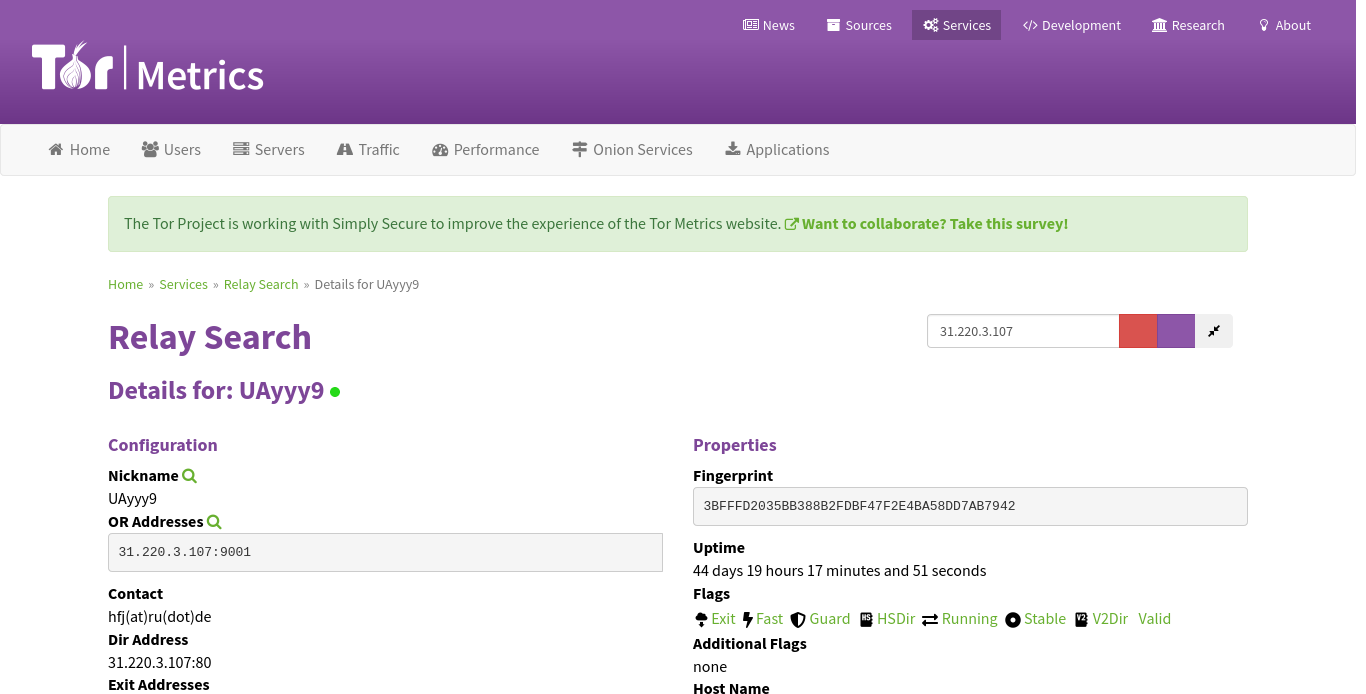
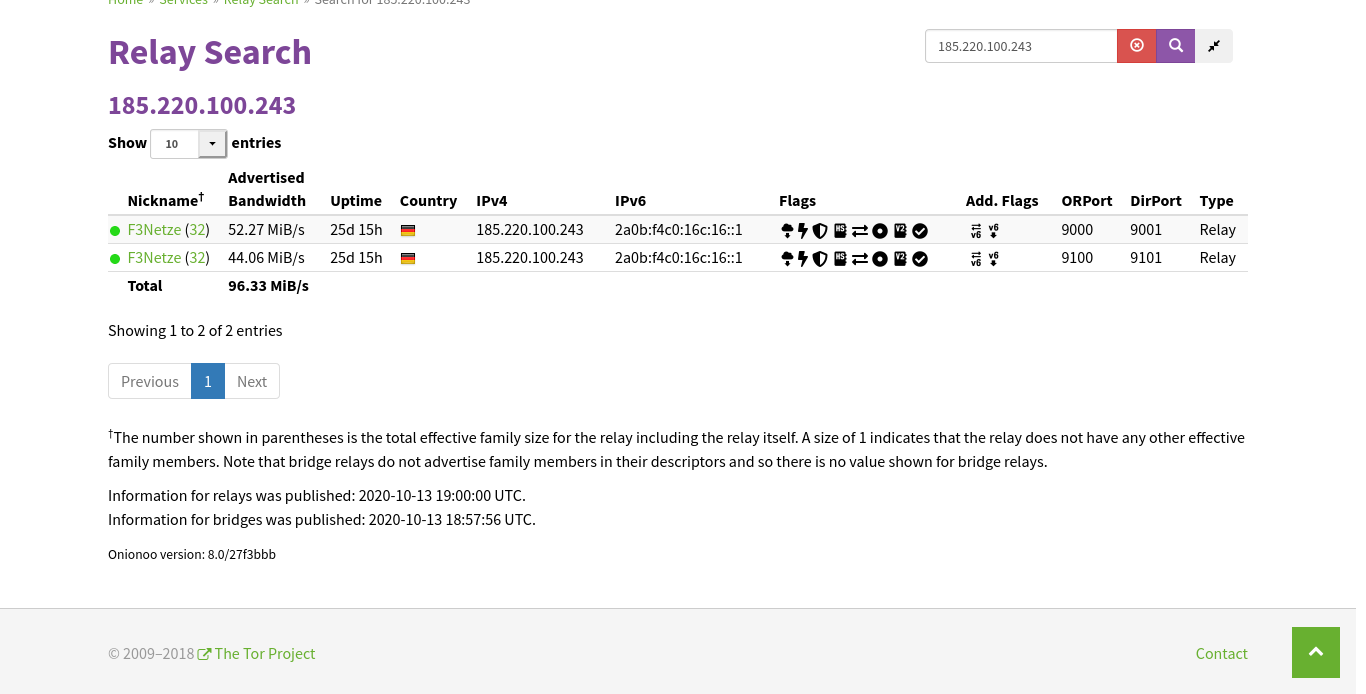
better tor

diff --git a/examples/tor.py b/examples/tor.py
@@ -1,4 +1,6 @@
 from pombo_correio import TorBrowser
+from time import sleep
+
 
 if __name__ == "__main__":
     from os.path import join, dirname, expanduser
@@ -12,16 +14,30 @@ if __name__ == "__main__":
                     headless=True,
                     js_enabled=False,
                     binary=binary) as browser:
-        url = browser.find_and_click_xpath("/html/body/div[2]/p[2]/a[2]")
+        browser.got_to_url("https://browserleaks.com/ip")
+        # TODO wait for element that indicates page loaded
+        browser.scroll_down(5)
+        sleep(1)
+        browser.save_screenshot("tor_browserleaks.png")
+
+        browser.got_to_url("https://check.torproject.org/")
+        browser.find_and_click_xpath("/html/body/div[2]/p[2]/a[2]")
         browser.wait_for_xpath("/html/body/div/div[4]/div[2]/h2/span")
+        browser.scroll_down(5)
+        sleep(1)
         browser.save_screenshot("tor_relay.png")
 """
-BrowserEvents.BROWSER_OPEN {'open_tabs': ['15'], 'tab_id': '15', 'homepage': 'https://check.torproject.org/'}
+BrowserEvents.BROWSER_OPEN {'open_tabs': ['15'], 'tab_id': '15', 'homepage': 'https://torproject.org/'}
+BrowserEvents.OPEN_URL {'url': 'https://browserleaks.com/ip', 'old_url': 'https://www.torproject.org/', 'tab_id': '15'}
+BrowserEvents.ELEMENT_SEND_KEYS {'keys': ['\ue015', '\ue015', '\ue015', '\ue015', '\ue015'], 'element_text': 'Home Page\nIP Address\nJavaScript\nWebRTC Leak Test\nCanvas Fingerprint\nWebGL Report\nFont Fingerprinting\nSSL Client Test\nGeolocation API\nFeatures Detection\nContent Filters\nJava Applet\nFlash Player\nSilverlight\nMore Tools\nSettings\nWhat Is My IP Address\nMy IP Address\nIP address 77.247.181.162\nHostname chomsky.torservers.net\nIP Address Location\nCountry Netherlands (NL)\nState/Region South Holland (ZH)\nCity Dordrecht\nISP NForce Entertainment B.V.\nASN 43350\nTimezone Europe/Amsterdam\nLocal Time Tue, 13 Oct 2020 22:14:32 +0200\nLatitude/Longitude 51.7731,4.6752\nIPv6 Leak Test\nIPv6 Address\n2a0b:f4c0:16c:16::1\nWebRTC Leak Test\nLocal IP address n/a\nPublic IP address n/a\nDNS Leak Test\nTest Results Found 2 Servers, 1 ISP, 1 Location\nYour DNS Servers\nIP Address : ISP : Location :\n185.220.100.130 F3 Netze e.V. Germany\n2a0b:f4c0:16c:130::1 F3 Netze e.V. Germany\nFlash Leak Test\nFlash IP address n/a\nTCP/IP Fingerprint\nOS Linux (2.2.x-3.x)\nLink Ethernet or modem\nMTU 1500\nDistance 11 Hops\nHTTP Headers\nraw headers\nRequest GET /ip HTTP/2.0\nHost browserleaks.com\nUser-Agent Mozilla/5.0 (X11; Ubuntu; Linux x86_64; rv:81.0) Gecko/20100101 Firefox/81.0\nAccept text/html,application/xhtml+xml,application/xml;q=0.9,image/webp,*/*;q=0.8\nAccept-Language en-US,en;q=0.5\nAccept-Encoding gzip, deflate, br\nUpgrade-Insecure-Requests 1\nTE trailers\n\n\n\n\n\n\n\n\nTor Relay Details\nRelays\n✔\nFound 3 Tor Relays matching your IP [show all / hide all]\nRelay #1 Fingerprint 204DFD2A2C6A0DC1FA0EACB495218E0B661704FD\nRunning\n✔\nTrue\nNickname HaveHeart\nCountry Netherlands\nLatitude/Longitude 52.3824,4.8995\nAS Number AS43350\nAS Name NForce Entertainment B.V.\nOR Addresses 77.247.181.164:443\nExit Addresses 77.247.181.162\nDir Address 77.247.181.164:80\nVerified Host Names rainbowwarrior.torservers.net\nFlags\nExit Policy\nreject 0.0.0.0/8:*\nreject 169.254.0.0/16:*\nreject 127.0.0.0/8:*\nreject 192.168.0.0/16:*\nreject 10.0.0.0/8:*\nreject 172.16.0.0/12:*\nreject 77.247.181.164:*\nreject *:25\nreject 45.79.79.0/24:*\nreject 45.79.65.0/24:*\naccept *:*\nFirst Seen 2017-10-03 00:00:00 UTC\nLast Seen 2020-10-13 19:00:00 UTC\nLast Restarted 2020-09-23 04:49:47 UTC\nBandwidth 51.68 MB/s\nContact https://www.torservers.net/donate.html <support .AT. torservers .DOT. net>\nPlatform Tor 0.4.4.5 on Linux\nVersion Status Recommended\nRelay #2 Fingerprint 77131D7E2EC1CA9B8D737502256DA9103599CE51\n\n\n\n\n\n\n\n\n\n\nRelay #3 Fingerprint 7BFB908A3AA5B491DA4CA72CCBEE0E1F2A939B55\n\n\n\n\n\n\n\n\n\n\nWhere is My IP\n77.247.181.162\n+\n−\n© OpenStreetMap contributors, © CARTO\nIP Address Whois\nWhois 77.247.181.162\ninetnum:        77.247.181.160 - 77.247.181.175\nnetname:        ZWIEBELFREUNDE\ndescr:          Customer 692 / Zwiebelfreunde e.V.\nremarks:        Sent abuse to: abuse@torservers.net\ncountry:        NL\nadmin-c:        MB22990-RIPE\ntech-c:         MB22990-RIPE\nabuse-c:        AR18597-RIPE\nstatus:         ASSIGNED PA\nmnt-by:         MNT-NFORCE\nmnt-lower:      MNT-NFORCE\nmnt-routes:     MNT-NFORCE\ncreated:        2015-02-04T09:09:24Z\nlast-modified:  2019-09-17T10:54:47Z\nsource:         RIPE # Filtered\n\nperson:         Moritz Bartl\naddress:        Zwiebelfreunde e.V.\naddress:        c/o DID Dresdner Institut fuer Datenschutz\naddress:        Palaisplatz 3\naddress:        01097 Dresden\naddress:        Germany\nphone:          +49-351-21296018\nfax-no:         +49-8131-9044975\nremarks:        ---------------------------------\nremarks:        This network is used for research\nremarks:        in anonymization services and\nremarks:        provides Tor exit nodes to end\nremarks:        users.\nremarks:        ---------------------------------\nremarks:        Dieser Netzblock wird zur\nremarks:        Erforschung von Anonymisierungs-\nremarks:        techniken genutzt und stellt\nremarks:        Endnutzern Tor zur Verfuegung.\nremarks:        ---------------------------------\nremarks:        http://www.torservers.net/abuse.html\nremarks:        ---------------------------------\nnic-hdl:        MB22990-RIPE\nmnt-by:         ZWIEBELFREUNDE\ncreated:        2011-02-11T04:11:32Z\nlast-modified:  2019-10-03T21:50:51Z\nsource:         RIPE # Filtered\n\nroute:          77.247.176.0/21\ndescr:          NFOrce Entertainment BV - route 77.247.176.0/21\norigin:         AS43350\nmnt-by:         MNT-NFORCE\ncreated:        2020-05-01T07:14:42Z\nlast-modified:  2020-05-01T07:14:42Z\nsource:         RIPE\nFurther Reading\n\nLeave a Comment (113)\nBrowserLeaks © 2011-2020 All Right Reserved\nmoc.skaelresworb@nimda', 'tab_id': '15', 'url': 'https://browserleaks.com/ip', 'href': None}
+BrowserEvents.SCREENSHOT {'image': 'tor_browserleaks.png', 'tab_id': '15', 'url': 'https://browserleaks.com/ip'}
+BrowserEvents.OPEN_URL {'url': 'https://check.torproject.org/', 'old_url': 'https://browserleaks.com/ip', 'tab_id': '15'}
 BrowserEvents.WAIT_FOR_XPATH {'xpath': '/html/body/div[2]/p[2]/a[2]', 'timeout': 10, 'tab_id': '15', 'url': 'https://check.torproject.org/'}
-BrowserEvents.XPATH_FOUND {'xpath': '/html/body/div[2]/p[2]/a[2]', 'timeout': 10, 'tab_id': '15', 'url': 'https://check.torproject.org/', 'element_text': 'Relay Search', 'href': 'https://metrics.torproject.org/rs.html#search/31.220.3.107', 'element_id': '75fa7b6e-fa33-4792-b507-f20b4eebf828'}
-BrowserEvents.ELEMENT_CLICKED {'xpath': '/html/body/div[2]/p[2]/a[2]', 'element_text': 'Relay Search', 'tab_id': '15', 'url': 'https://check.torproject.org/', 'href': 'https://metrics.torproject.org/rs.html#search/31.220.3.107'}
-BrowserEvents.WAIT_FOR_XPATH {'xpath': '/html/body/div/div[4]/div[2]/h2/span', 'timeout': 30, 'tab_id': '15', 'url': 'https://metrics.torproject.org/rs.html#search/31.220.3.107'}
-BrowserEvents.XPATH_FOUND {'xpath': '/html/body/div/div[4]/div[2]/h2/span', 'timeout': 30, 'tab_id': '15', 'url': 'https://metrics.torproject.org/rs.html#search/31.220.3.107', 'element_text': '', 'href': None, 'element_id': '0ccc6fc6-d254-4c59-bebf-e15674a61488'}
-BrowserEvents.SCREENSHOT {'image': 'tor_relay.png', 'tab_id': '15', 'url': 'https://metrics.torproject.org/rs.html#details/3BFFFD2035BB388B2FDBF47F2E4BA58DD7AB7942'}
-BrowserEvents.BROWSER_CLOSED {'open_tabs': ['15'], 'tab_id': '15', 'current_url': 'https://metrics.torproject.org/rs.html#details/3BFFFD2035BB388B2FDBF47F2E4BA58DD7AB7942', 'tab2url': {'15': 'https://check.torproject.org/'}}
+BrowserEvents.XPATH_FOUND {'xpath': '/html/body/div[2]/p[2]/a[2]', 'timeout': 10, 'tab_id': '15', 'url': 'https://check.torproject.org/', 'element_text': 'Relay Search', 'href': 'https://metrics.torproject.org/rs.html#search/185.220.100.243', 'element_id': 'b0246841-66b4-40f3-b14d-7e32336e9a3a'}
+BrowserEvents.ELEMENT_CLICKED {'xpath': '/html/body/div[2]/p[2]/a[2]', 'element_text': 'Relay Search', 'tab_id': '15', 'url': 'https://check.torproject.org/', 'href': 'https://metrics.torproject.org/rs.html#search/185.220.100.243'}
+BrowserEvents.WAIT_FOR_XPATH {'xpath': '/html/body/div/div[4]/div[2]/h2/span', 'timeout': 30, 'tab_id': '15', 'url': 'https://metrics.torproject.org/rs.html#search/185.220.100.243'}
+BrowserEvents.XPATH_NOT_FOUND {'xpath': '/html/body/div/div[4]/div[2]/h2/span', 'timeout': 30, 'tab_id': '15', 'url': 'https://metrics.torproject.org/rs.html#search/185.220.100.243'}
+BrowserEvents.ELEMENT_SEND_KEYS {'keys': ['\ue015', '\ue015', '\ue015', '\ue015', '\ue015'], 'element_text': 'News\nSources\nServices\nDevelopment\nResearch\nAbout\nHome\nUsers\nServers\nTraffic\nPerformance\nOnion Services\nApplications\nThe Tor Project is working with Simply Secure to improve the experience of the Tor Metrics website. Want to collaborate? Take this survey!\nHomeServicesRelay SearchSearch for 185.220.100.243\nRelay Search\n185.220.100.243\nShow\n10\n25\n50\n100\nentries\nNickname† Advertised Bandwidth Uptime Country IPv4 IPv6 Flags Add. Flags ORPort DirPort Type\n  Total 96.33 MiB/s                  \nF3Netze (32) 52.27 MiB/s 25d 15h 185.220.100.243 2a0b:f4c0:16c:16::1 9000 9001 Relay\nF3Netze (32) 44.06 MiB/s 25d 15h 185.220.100.243 2a0b:f4c0:16c:16::1 9100 9101 Relay\nShowing 1 to 2 of 2 entries\nPrevious\n1\nNext\n†The number shown in parentheses is the total effective family size for the relay including the relay itself. A size of 1 indicates that the relay does not have any other effective family members. Note that bridge relays do not advertise family members in their descriptors and so there is no value shown for bridge relays.\nInformation for relays was published: 2020-10-13 19:00:00 UTC.\nInformation for bridges was published: 2020-10-13 18:57:56 UTC.\nOnionoo version: 8.0/27f3bbb\n© 2009–2018 The Tor Project\nContact\nThis material is supported in part by the National Science Foundation under Grant No. CNS-0959138. Any opinions, finding, and conclusions or recommendations expressed in this material are those of the author(s) and do not necessarily reflect the views of the National Science Foundation. "Tor" and the "Onion Logo" are registered trademarks of The Tor Project, Inc.. Data on this site is freely available under a CC0 no copyright declaration: To the extent possible under law, the Tor Project has waived all copyright and related or neighboring rights in the data. Graphs are licensed under a Creative Commons Attribution 3.0 United States License.', 'tab_id': '15', 'url': 'https://metrics.torproject.org/rs.html#search/185.220.100.243', 'href': None}
+BrowserEvents.SCREENSHOT {'image': 'tor_relay.png', 'tab_id': '15', 'url': 'https://metrics.torproject.org/rs.html#search/185.220.100.243'}
+BrowserEvents.BROWSER_CLOSED {'open_tabs': ['15'], 'tab_id': '15', 'current_url': 'https://metrics.torproject.org/rs.html#search/185.220.100.243', 'tab2url': {'15': 'https://check.torproject.org/'}}
 """

diff --git a/pombo_correio/__init__.py b/pombo_correio/__init__.py
@@ -744,9 +744,3 @@ class TorBrowser(FirefoxBrowser):
 
     def create_firefox_profile(self):
         return self.create_tor_profile()
-
-    def relay_data_screenshot(self, path="tor_relay.png"):
-        self.got_to_url("https://check.torproject.org/")
-        self.find_and_click_xpath("/html/body/div[2]/p[2]/a[2]")
-        self.wait_for_xpath("/html/body/div/div[4]/div[2]/h2/span")
-        self.save_screenshot(path)
